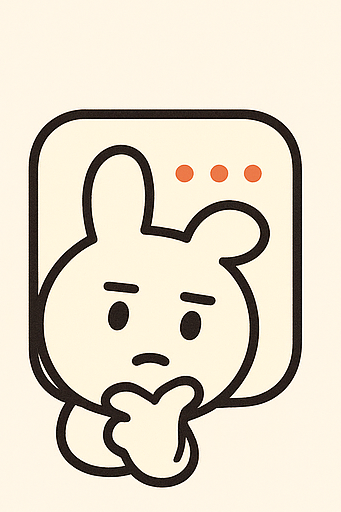
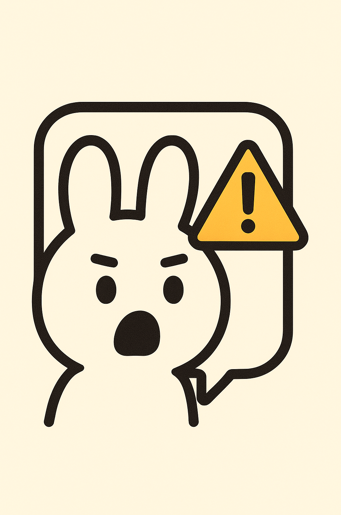
toastHelper추가

Changed region(s): [[0.0587, 0.1875, 0.9091, 0.9688]]

diff --git a/src/pages/ToastTestPage.tsx b/src/pages/ToastTestPage.tsx
@@ -1,0 +1,62 @@
+// src/pages/ToastTestPage.tsx
+import React from 'react';
+import { useToastHelper } from '@/components/EmotionToast/toastHelper';
+
+const ToastTestPage = () => {
+  const {
+  showSuccessToast,
+  showErrorToast,
+  showWarningToast,
+  showInfoToast,
+  showGPTToast,
+  showCustomToast,
+} = useToastHelper();
+
+  return (
+    <div className="min-h-screen flex flex-col items-center justify-center gap-4 bg-gray-50 dark:bg-gray-800 text-black dark:text-white">
+      <h1 className="text-2xl font-bold">Emotion Toast 테스트 페이지</h1>
+      <div className="flex flex-wrap gap-2">
+        <button
+          onClick={() => showInfoToast('정보 메시지입니다!')}
+          className="px-4 py-2 bg-blue-500 text-white rounded"
+        >
+          Info Toast
+        </button>
+        <button
+          onClick={() => showSuccessToast('성공했습니다!')}
+          className="px-4 py-2 bg-green-500 text-white rounded"
+        >
+          Success Toast
+        </button>
+
+        <button
+          onClick={() => showErrorToast('에러발생!')}
+          className="px-4 py-2 bg-red-500 text-white rounded"
+        >
+          error Toast
+        </button>
+
+        <button
+          onClick={() => showWarningToast('경고! 위험!')}
+          className="px-4 py-2 bg-yellow-500 text-black rounded"
+        >
+          Warn Toast
+        </button>
+        <button
+          onClick={() => showGPTToast('GPT 캐릭터 등장 😴')}
+          className="px-4 py-2 bg-purple-500 text-white rounded"
+        >
+          GPT Toast
+        </button>
+        <button
+          onClick={() => showCustomToast('커스텀 메시지!')}
+          className="px-4 py-2 bg-gray-500 text-white rounded"
+        >
+          Custom Toast
+        </button>
+      </div>
+    </div>
+  );
+};
+
+export default ToastTestPage;

diff --git a/src/components/EmotionToast/useEmotionToast.tsx b/src/components/EmotionToast/useEmotionToast.tsx
@@ -1,5 +1,5 @@
 // src/components/EmotionToast/useEmotionToast.ts
-import { useState } from 'react';
+import { createContext, useContext, useState } from 'react';
 
 export type ToastType = 'success' | 'error' | 'info' | 'warn' | 'gpt' | 'custom';
 
@@ -9,10 +9,23 @@ export interface EmotionToast {
   type: ToastType;
 }
 
-export const useEmotionToastState = () => {
+interface EmotionToastInput {
+  message: string;
+  type?: ToastType;
+}
+
+interface EmotionToastState {
+  toasts: EmotionToast[];
+  showToast: (toast: EmotionToastInput) => void;
+  removeToast: (id: string) => void;
+}
+
+export const ToastContext = createContext<EmotionToastState | null>(null);
+
+export const useEmotionToastState = (): EmotionToastState => {
   const [toasts, setToasts] = useState<EmotionToast[]>([]);
 
-  const addToast = (message: string, type: ToastType = 'info') => {
+  const showToast = ({ message, type = 'info' }: EmotionToastInput) => {
     const id = Date.now().toString();
     const newToast: EmotionToast = { id, message, type };
     setToasts((prev) => [...prev, newToast]);
@@ -22,8 +35,15 @@ export const useEmotionToastState = () => {
     }, 3000);
   };
 
-  return {
-    toasts,
-    addToast,
+  const removeToast = (id: string) => {
+    setToasts((prev) => prev.filter((toast) => toast.id !== id));
   };
+
+  return { toasts, showToast, removeToast };
+};
+
+export const useEmotionToast = () => {
+  const context = useContext(ToastContext);
+  if (!context) throw new Error('EmotionToastProvider로 감싸야 합니다.');
+  return context;
 };

diff --git a/src/App.tsx b/src/App.tsx
@@ -3,15 +3,15 @@
 import React, { useEffect, useState } from 'react';
 import { Routes, Route, Navigate } from 'react-router-dom';
 import LoginPage from '@/pages/LoginPage';
-import { useEmotionToastState } from './components/EmotionToast/useEmotionToast';
-import EmotionToastContainer from './components/EmotionToast/EmotionToastContainer';
+import ToastTestPage from '@/pages/ToastTestPage';
+
+import { EmotionToastProvider } from '@/components/EmotionToast/EmotionToastProvider';
+import { EmotionToastContainer } from '@/components/EmotionToast/EmotionToastContainer';
 
 
 const App = () => {
 
   const [theme, setTheme] = useState('light');
-
-  const [show, setShow] = useState(false);
 
   useEffect(() => {
     const saved = localStorage.getItem('theme');
@@ -29,11 +29,15 @@ const App = () => {
   }, []);
 
   return (
+    <EmotionToastProvider>
+      <EmotionToastContainer />
     <Routes>
       <Route path="/" element={<Navigate to="/login" />} />
       <Route path="/login" element={<LoginPage />} />
       {/* 나중에 추가될 페이지도 여기에 추가하면 됨 */}
+      <Route path="/toast-test" element={<ToastTestPage />} />
     </Routes>
+     </EmotionToastProvider>
   );
    
 };

diff --git a/src/components/EmotionToast/EmotionToastContainer.tsx b/src/components/EmotionToast/EmotionToastContainer.tsx
@@ -1,25 +1,16 @@
-// src/components/EmotionToast/EmotionToastContainer.tsx
-import React from 'react';
-import ReactDOM from 'react-dom';
-import EmotionToastItem from './EmotionToastItem';
-import { EmotionToast } from './useEmotionToast';
+import { createPortal } from 'react-dom';
+import { useEmotionToast } from '@/components/EmotionToast/useEmotionToast';
+import EmotionToastItem from '@/components/EmotionToast/EmotionToastItem';
 
-interface Props {
-  toasts: EmotionToast[];
-}
+export const EmotionToastContainer = () => {
+  const { toasts, removeToast } = useEmotionToast();
 
-const EmotionToastContainer = ({ toasts }: Props) => {
-  const container = document.getElementById('toast-root');
-  if (!container) return null;
-
-  return ReactDOM.createPortal(
-    <div className="fixed top-4 right-4 z-50">
+  return createPortal(
+    <div className="fixed top-4 right-4 flex flex-col gap-2 z-[9999]">
       {toasts.map((toast) => (
-        <EmotionToastItem key={toast.id} toast={toast} />
+        <EmotionToastItem key={toast.id} toast={toast} onRemove={removeToast} />
       ))}
     </div>,
-    container
+    document.body
   );
 };
-
-export default EmotionToastContainer;

diff --git a/src/components/EmotionToast/toastHelper.tsx b/src/components/EmotionToast/toastHelper.tsx
@@ -1,0 +1,27 @@
+// src/components/EmotionToast/toastHelper.ts
+import { useEmotionToast } from './useEmotionToast'
+
+export const useToastHelper = () => {
+  const { showToast } = useEmotionToast()
+
+  return {
+    showSuccessToast: (msg: string) =>
+      showToast({ type: 'success', message: msg }),
+
+    showErrorToast: (msg: string) =>
+      showToast({ type: 'error', message: msg }),
+
+    showWarningToast: (msg: string) =>
+      showToast({ type: 'warn', message: msg }),
+
+    showInfoToast: (msg: string) =>
+      showToast({ type: 'info', message: msg }),
+
+    showGPTToast: (msg: string) =>
+      showToast({ type: 'gpt', message: msg }),
+
+    // 필요 시 사용자 정의
+    showCustomToast: (msg: string) =>
+      showToast({ type: 'custom', message: msg }),
+  }
+}

diff --git a/src/components/EmotionToast/EmotionToastProvider.tsx b/src/components/EmotionToast/EmotionToastProvider.tsx
@@ -1,0 +1,17 @@
+// src/components/EmotionToast/EmotionToastProvider.tsx
+import React from 'react';
+import { ToastContext, useEmotionToastState } from '@/components/EmotionToast/useEmotionToast';
+
+type Props = {
+  children: React.ReactNode;
+};
+
+export const EmotionToastProvider = ({ children }: Props) => {
+  const state = useEmotionToastState();
+
+  return (
+    <ToastContext.Provider value={state}>
+      {children}
+    </ToastContext.Provider>
+  );
+};

diff --git a/src/components/EmotionToast/EmotionToastItem.tsx b/src/components/EmotionToast/EmotionToastItem.tsx
@@ -5,6 +5,7 @@ import clsx from 'clsx';
 
 interface Props {
   toast: EmotionToast;
+  onRemove: (id: string) => void; 
 }
 
 export const toastImageMap: Record<string, string> = {
